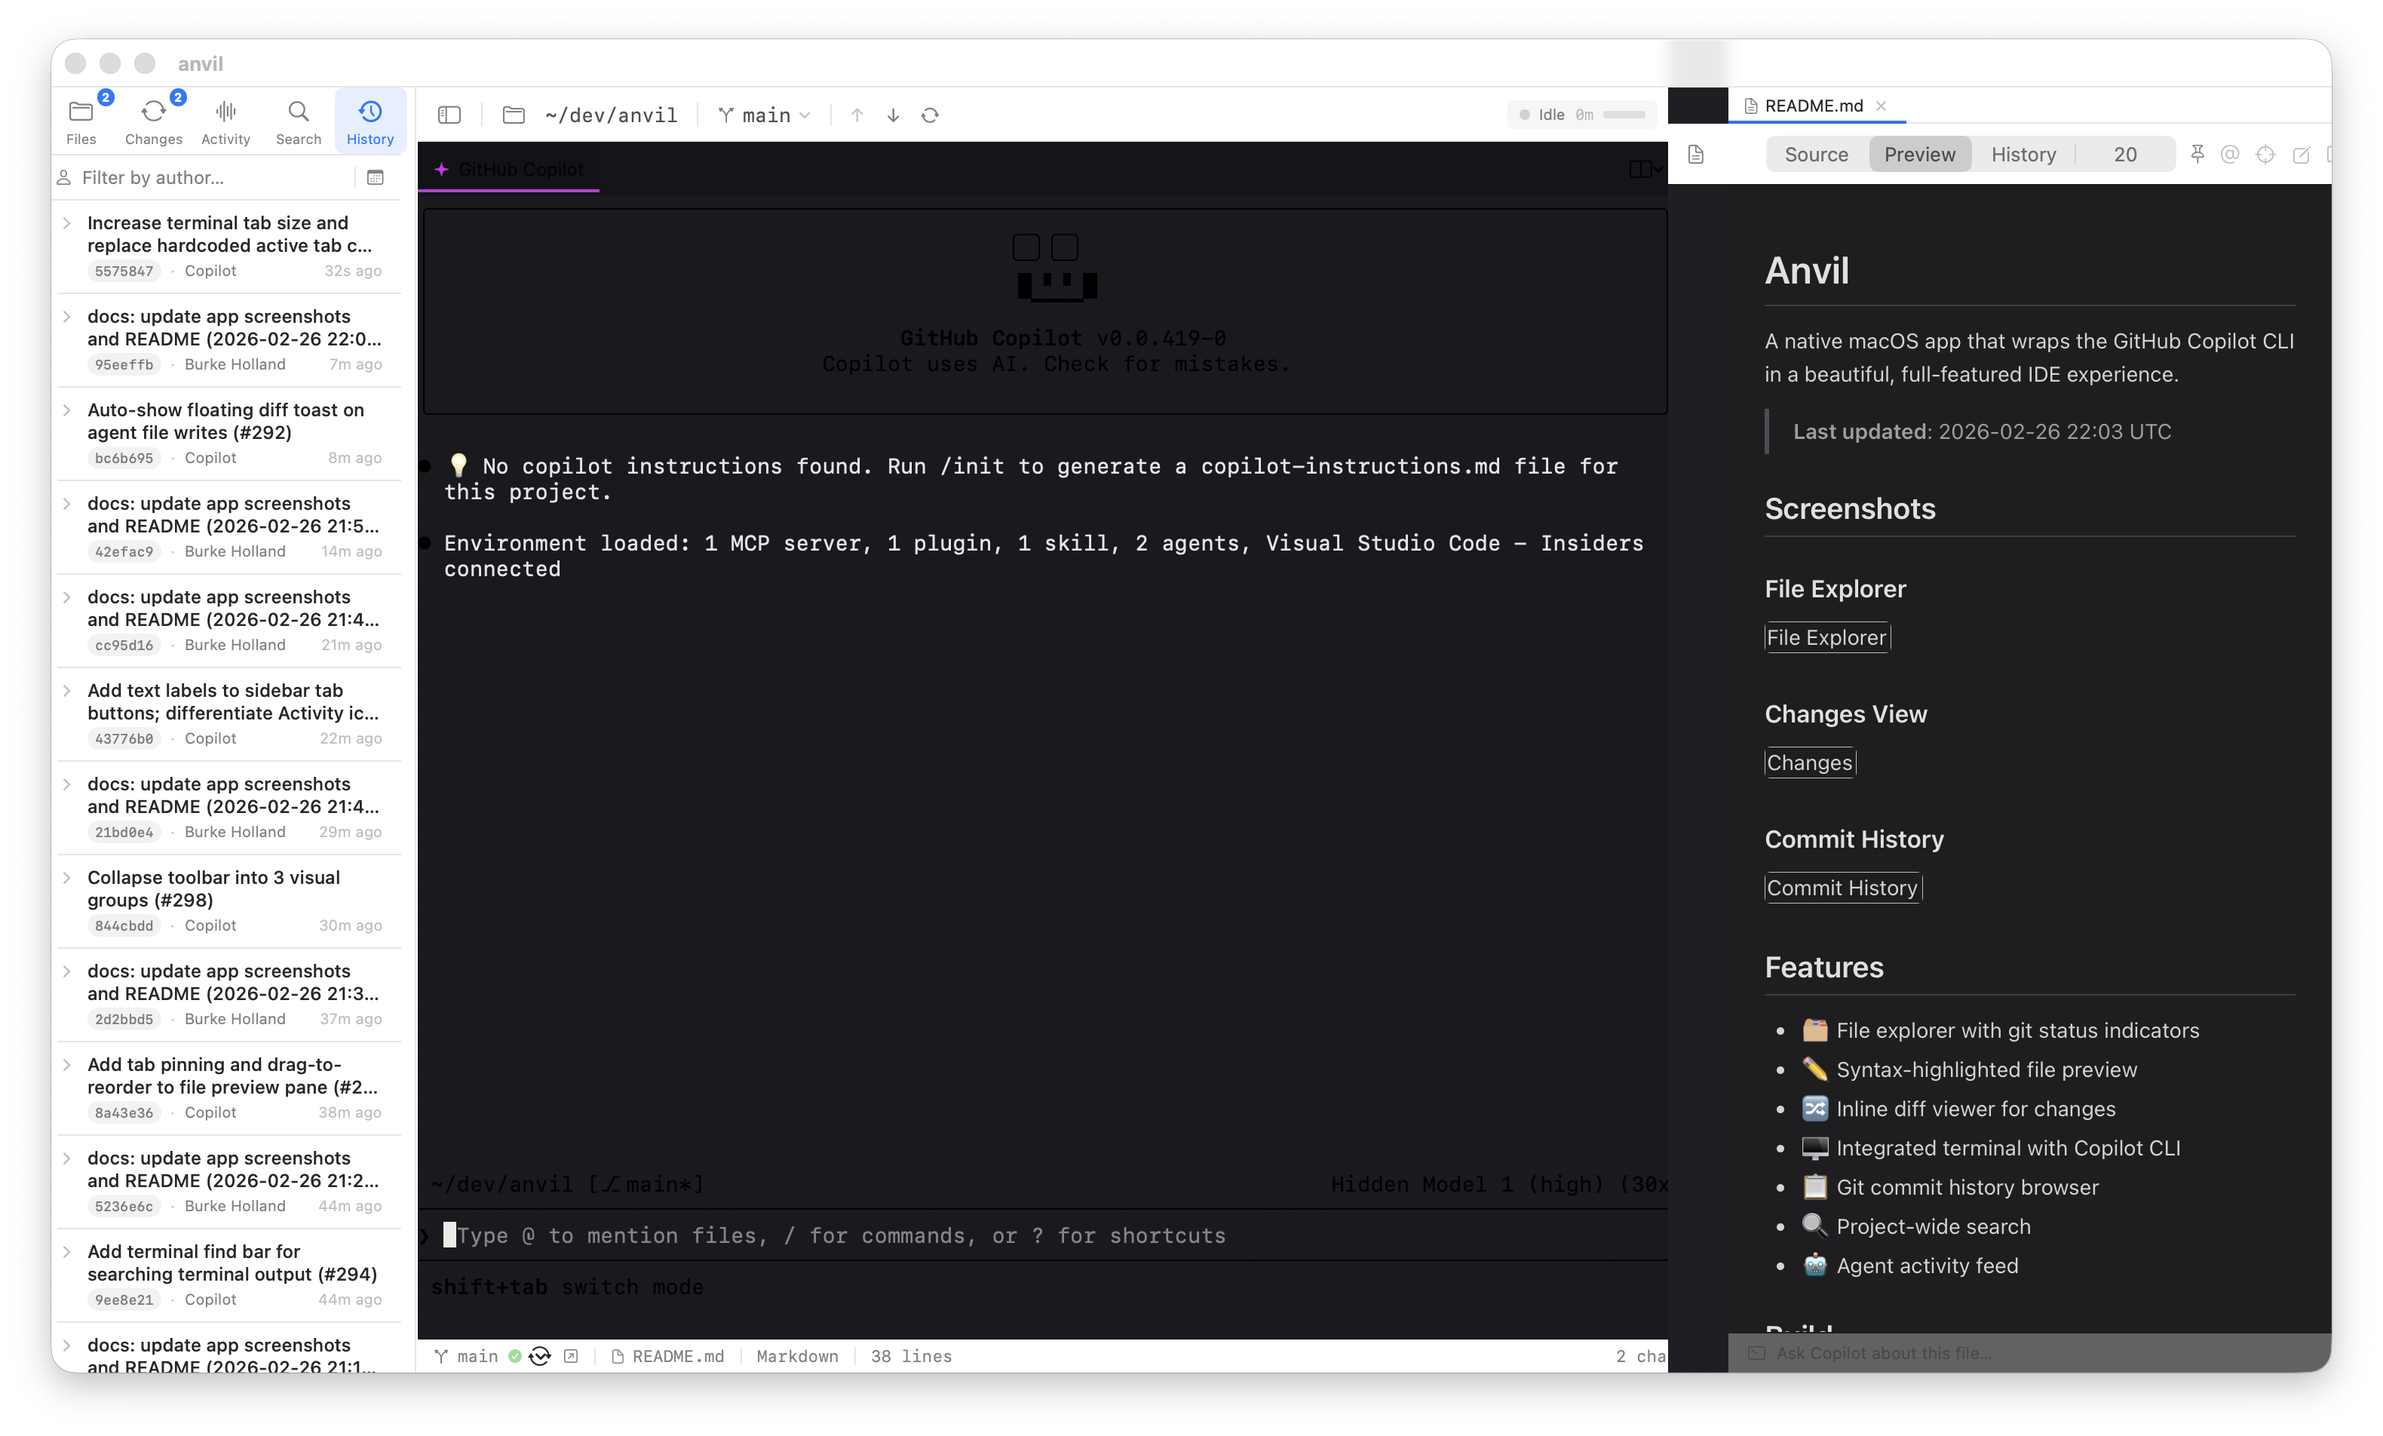
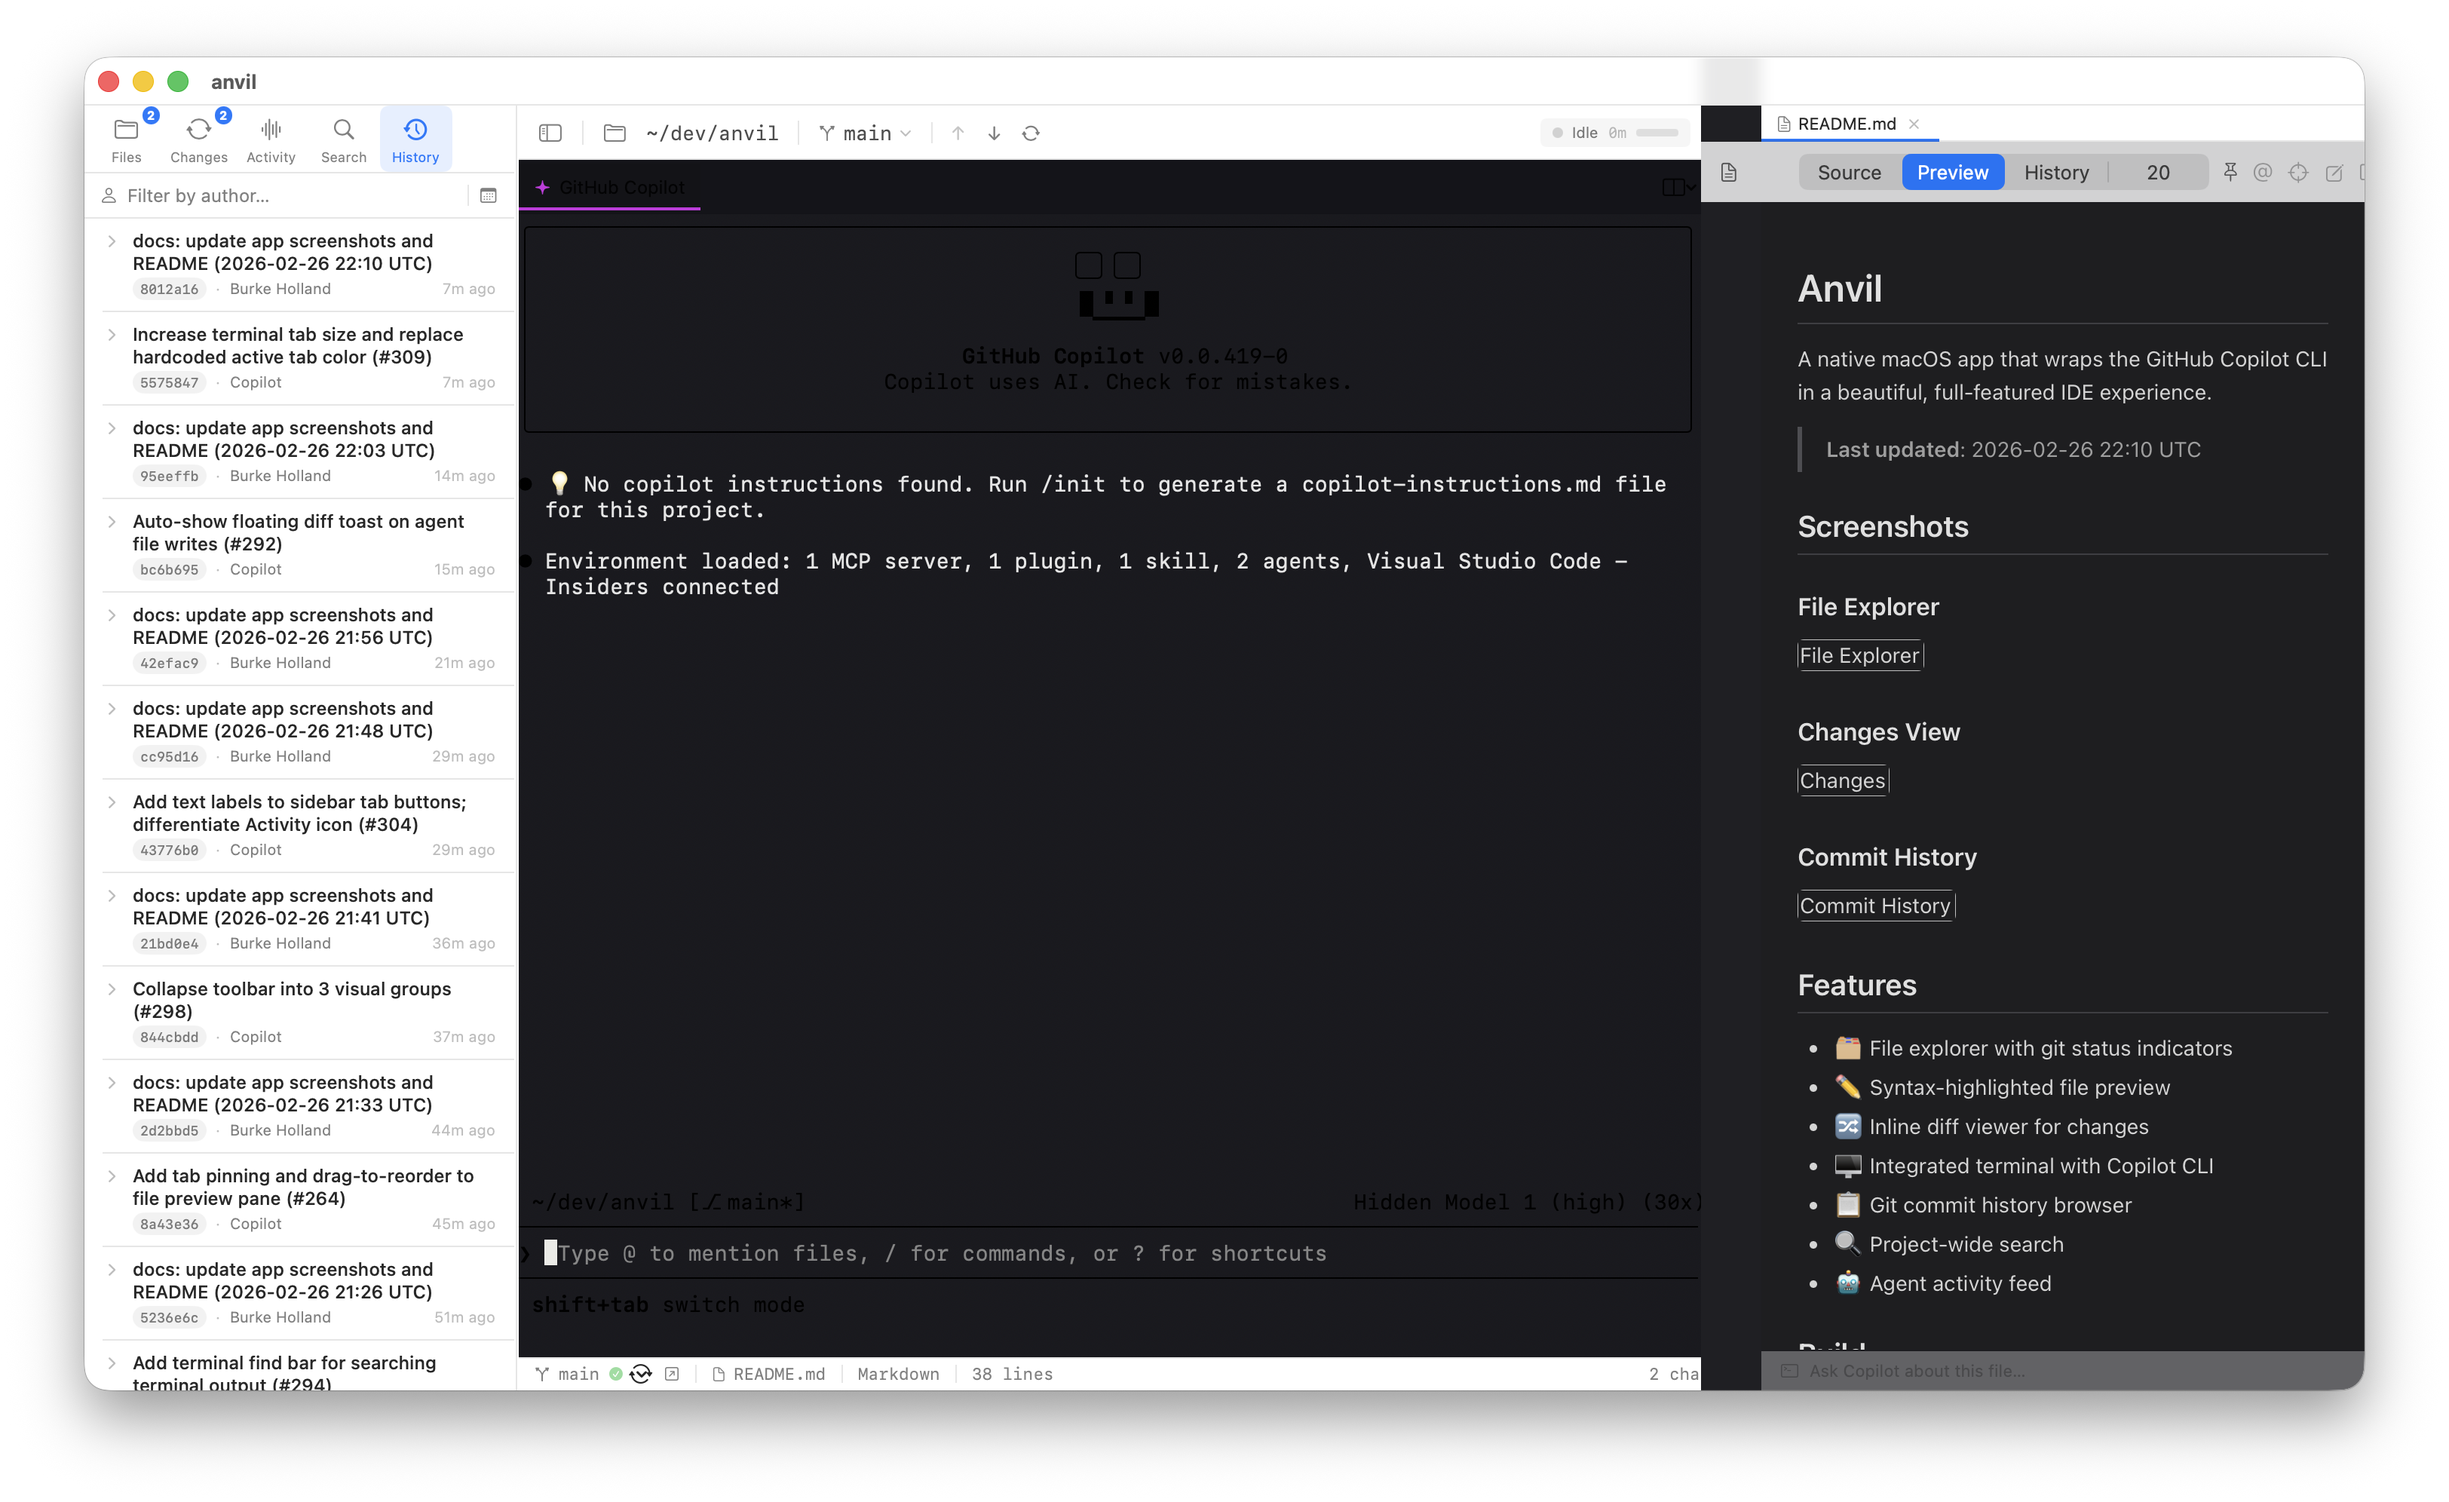
docs: update app screenshots and README (2026-02-26 22:18 UTC)

diff --git a/README.md b/README.md
@@ -2,7 +2,7 @@
 
 A native macOS app that wraps the GitHub Copilot CLI in a beautiful, full-featured IDE experience.
 
-> **Last updated**: 2026-02-26 22:10 UTC
+> **Last updated**: 2026-02-26 22:18 UTC
 
 ## Screenshots
 
